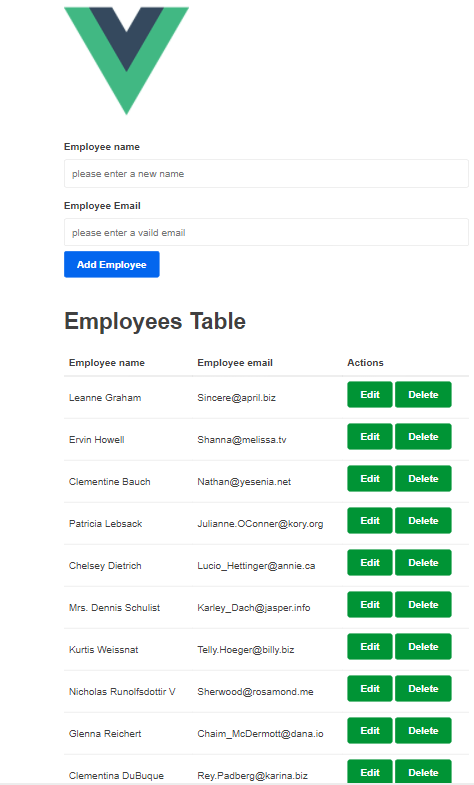
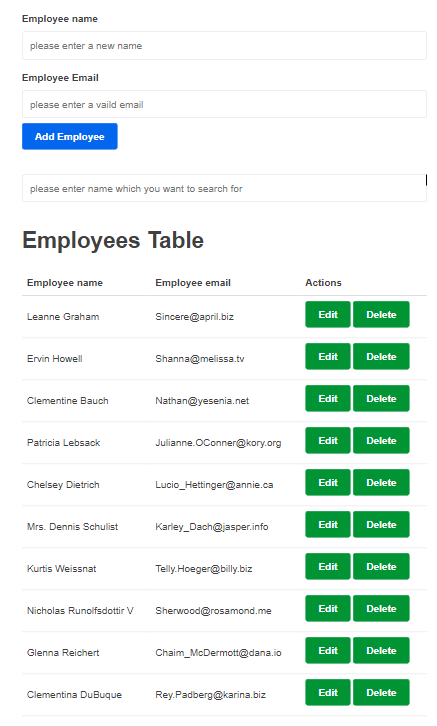
add searchBar

diff --git a/employeeForm/src/App.vue b/employeeForm/src/App.vue
@@ -3,9 +3,9 @@
     <img src="./assets/logo.png">
 
    <employee-form @add="addEmployee" />
-
+    <search-bar @search="setKeyword"></search-bar>
     <h1>Employees Table</h1>
-    <employee-table :employees="employees" @edit="editEmployee" @delete="deleteEmployee"/>
+    <employee-table :employees="filteredResult" @edit="editEmployee" @delete="deleteEmployee"/>
     <!-- <router-view/> -->
     <!-- <button @click="addEmployee">add</button> -->
   </div>
@@ -15,12 +15,14 @@
 // @用来引用src文件夹
 import EmployeeTable from '@/components/EmployeeTable.vue'
 import EmployeeForm from '@/components/EmployeeForm.vue'
+import SearchBar from '@/components/SearchBar.vue'
 
 export default {
   name: 'app',
   components:{
     EmployeeTable,
-    EmployeeForm
+    EmployeeForm,
+    SearchBar
   },
   //这里的app也只是一个component哦 所以还是用函数， 这里的数据写死 传给form
   data(){
@@ -41,13 +43,27 @@ export default {
               //   name: 'Dinesh Chugtai',
               //   email: 'dinesh@piedpiper.com',
               // },
-            ]
+            ],
+      keyword:''
       }
   },
-  mounted() {
+  created(){
      console.log('now: ',this.employees)
      this.getEmployees()
-  }, 
+  }
+  , 
+  computed:{
+    filteredResult: function() { 
+      //console.log('now keyword',this.keyword)
+      if(this.keyword===''){
+        return this.employees
+      }else{
+        return this.employees.filter(employee => {  
+          return  employee.name.toLowerCase().includes(this.keyword.toLowerCase())==true });
+      }
+    }
+  }
+  ,
   methods: {
     // addEmployee: function(employee) {
     //   console.log('addEmployee')
@@ -115,6 +131,10 @@ export default {
       } catch (error) {
         console.error(error);
       }
+    },
+    setKeyword:function(keyword){
+      console.log("searching",keyword)
+      this.keyword=keyword
     }
   }
 }

diff --git a/employeeForm/src/components/SearchBar.vue b/employeeForm/src/components/SearchBar.vue
@@ -1,0 +1,25 @@
+<template>
+  <div>
+      <input type="text" name="" id="" placeholder="please enter name which you want to search for" v-model="keyword" />
+  </div>
+</template>
+
+<script>
+export default {
+    name:'search-bar',
+    data() {
+        return {
+           keyword:''
+        }
+    }, 
+    watch: {
+        keyword: function (value) {
+            console.log(value);
+            this.$emit('search', value)
+        }
+    },  
+}
+
+</script>
+<style scoped>
+</style>
